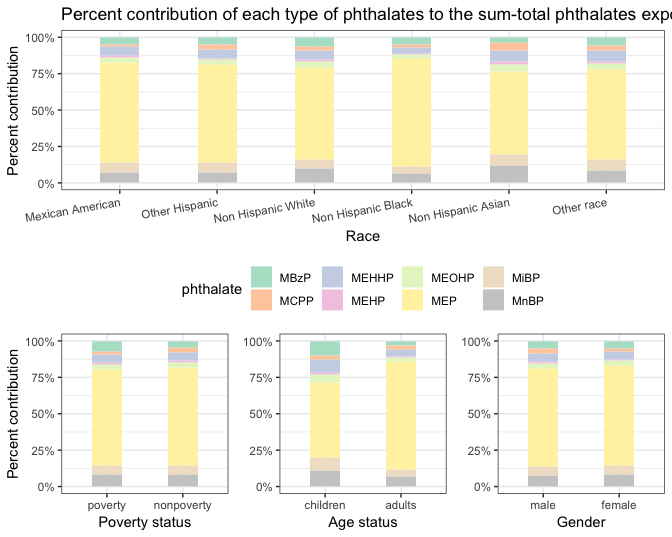
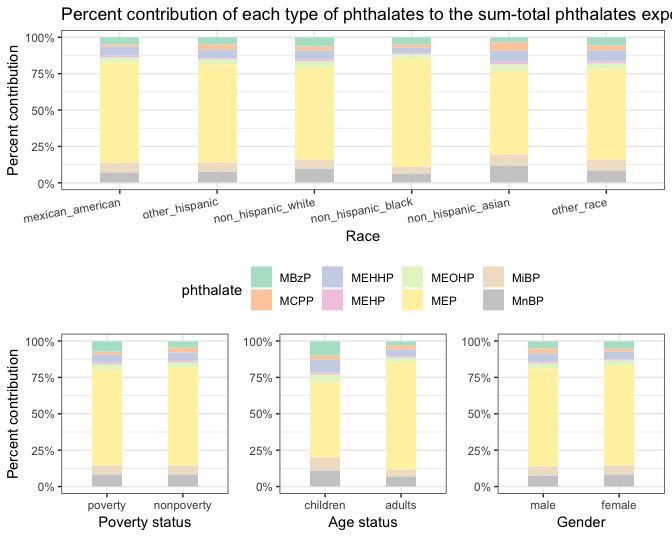
add conclusion

diff --git a/report.md b/report.md
@@ -6,9 +6,9 @@ Jun Lu, Yun He, Chu Yu, Chunxiao Zhai, Haoran Hu
 Motivation
 ----------
 
-Our group first meant to fo a project about obesity. But then we found it not fascinating enough and decided to switch it to project about plasticizer polution influencing the obesity of population. \* The obesity pandemic: Cardio-cerebralvascular diseases have become the leading cause of death worldwide (with ischemic heart disease ranked No.1 and stroke ranked No.3 in 2017), in which diabetes and obesity are the top risk factors along with tobacco use. Disability and early death due to obesity and overweight have increased by 28.9% in the US from 1990 to 2016. In the mean time, obesity and overweight rate have been rapidly increasing in developing countries. Globally, in 2016, 39% of women and 39% of men aged 18 and over were overweight.
+Reason about topic change: Our group first wanted to work on the topic of obesity. However, the datasets we found weren't able to meet our goals. And we also found the topic not fascinating enough. Thus, we decided to switch our topic to plasticizer pollution and explore its effect on obesity as well.
 
--   The increasing plasticizer evidence: Is this health crisis fully due to the diet? First fat and now sugar have been blamed for causing obesity but increasing evidence have been found that pollution is playing an important role. Plasticizers or mainly phthalates have been found to interrupt endocrine system at very low level of exposure, concerns have been rising in pediatricians and scientists. However, suspected act like estrogen agonist in human body, conclusions of how plasticizers affect bodyweight in populations of different age and genders do not always agree. With latest evidence of plasticizers depositing in human brain and more detailed exposure monitoring data of plasticizer exposure, we want to explore the relationship between body weight and plasticizer exposure in the latest NHANES datasets.
+Plasticizers, mainly phthalates, can interrupt the endocrine system even at low exposure levels, and there is evidence of plasticizers depositing in animal brains. Concerns have been rising in pediatricians and scientists. Obesity, which is a major public health problem across the world, is also associated with plasticizer exposure. Fat at first and now sugar have been blamed for causing obesity, while increasing evidence shows that plasticizer pollution is also playing an important role. However, effects of plasticizers on bodyweight within different age and gender groups are different. With more detailed monitoring data on plasticizer exposure available at NHANES datasets, we can now explore the relationship between body weight and plasticizer exposure.
 
 Related works
 -------------
@@ -46,7 +46,7 @@ All data were retrieved from the the [National Health and Nutrition Examination 
 
 We downloaded demographics data ([DEMO2011-2012](https://wwwn.cdc.gov/Nchs/Nhanes/2011-2012/DEMO_G.XPT), [DEMO2013-2014](https://wwwn.cdc.gov/Nchs/Nhanes/2013-2014/DEMO_H.XPT) and [DEMO2015-2016](https://wwwn.cdc.gov/Nchs/Nhanes/2015-2016/DEMO_I.XPT)), phthalates metabolites data ([PHTHTE2011-2012](https://wwwn.cdc.gov/Nchs/Nhanes/2011-2012/PHTHTE_G.XPT), [PHTHTE2013-2014](https://wwwn.cdc.gov/Nchs/Nhanes/2013-2014/PHTHTE_H.XPT) and [PHTHTE2015-2016](https://wwwn.cdc.gov/Nchs/Nhanes/2015-2016/PHTHTE_I.XPT)) and body measures data ([BMX2011-2012](https://wwwn.cdc.gov/Nchs/Nhanes/2011-2012/BMX_G.XPT), [BMX2013-2014](https://wwwn.cdc.gov/Nchs/Nhanes/2013-2014/BMX_H.XPT) and [BMX2015-2016](https://wwwn.cdc.gov/Nchs/Nhanes/2015-2016/BMX_I.XPT)) into three local files.
 
-Variables used in demographics data:
+Variables selected from the demographics dataset:
 
 -   `SEQN`: Respondent sequence number
 -   `RIAGENDR`: Gender
@@ -54,7 +54,7 @@ Variables used in demographics data:
 -   `RIDRETH3`: Race and Hispanic origin information, with Non-Hispanic Asian Category
 -   `INDFMPIR`: Ratio of family income to poverty
 
-Variables used in phthalates metabolites data:
+Variables selected from the phthalates metabolites dataset:
 
 -   `SEQN`: Respondent sequence number
 -   `URXMEP`: Mono-ethyl phthalate (ng/mL)
@@ -66,10 +66,10 @@ Variables used in phthalates metabolites data:
 -   `URXMHH`: Mono-(2-ethyl-5-hydroxyhexyl) phthalate (ng/mL)
 -   `URXMOH`: Mono-(2-ethyl-5-oxohexyl) phthalate (ng/mL)
 
-Variables used in body measures data
+Variables selected from the body measures dataset:
 
 -   `SEQN`: Respondent sequence number
--   `BMXBMI`: Body Mass Index (kg/m\*\*2)
+-   `BMXBMI`: Body Mass Index (kg/m^2)
 -   `BMDBMIC`: BMI Category - Children/Youth
 
 Get the data
@@ -96,7 +96,7 @@ if (!file.exists("data")) {
 }
 ```
 
-We created a function (`download_nhanes`) to download data in NHANES according to the year and data category. Then we used this function and `map` to download demographics data, phthalates metabolites data and body measures data from 2011 to 2016 into three local files.
+We created a function (`download_nhanes`) to download NHANES data from three different survey years, which are '2011-2012', '2013-2014' and '2015-2016'. And we downloaded data on demographics, body measures and phthalates metabolites using this function and `map` into three local files.
 
 Read and clean the data
 -----------------------
@@ -156,11 +156,11 @@ str(phthte_demo_bmx)
     ##  $ concentrate   : num  10 7.4 4.3 25 115.8 ...
     ##  $ log_value     : num  2.3 2 1.46 3.22 4.75 ...
 
-We created a function (`read_file_data`) to read and combine data with one document. And we applied this function to three files and got integrated demographics data, phthalates metabolites data and body measures data from 2011 to 2016 respectively. Then we used `inner_join` to integrate three datasets by `SEQN`.
+We created a function (`read_file_data`) to read and combine datasets within one file. And we applied this function to each file where we had the NHANES data downloaded and finally got three datasets with integrated demographics data, phthalates metabolites data and body measures data ranging from 2011 to 2016, respectively. Then we used `inner_join` to integrate these three datasets by `SEQN`.
 
-We selected variables of interest and converted `gender`, `race`, `bmi_cat` and `poverty_status` into factors. For each individual, the total exposure (`phthte_all`) was calculated as the sum of exposure for each of the eight phthalates. Then we used `gather` to go from wide format to long format. We took log transformation of `concentrate` to create `log_value`.
+We selected variables of interest, and converted `gender`, `race`, `bmi_cat` and `poverty_status` into factors. For each individual, total exposure (`phthte_all`) was calculated by adding the exposure of all eight phthalates metabolites. Then we used `gather` to aggregate data. We also took the log transformation on `concentrate` to create `log_value`.
 
-The final dataset contains data for 8 urinary phthalate metabolites and related information from 8149 participants in the National Health and Nutrition Examination Survey (NHANES) 2011–2016. It contains 73341 observations and 11 variables.
+The final dataset contains data on 8 urinary phthalate metabolites and related information from 8149 participants in the National Health and Nutrition Examination Survey (NHANES) 2011–2016. It contains 73341 observations and 11 variables.
 
 -   `id`: Respondent sequence number
 -   `gender`: Gender
@@ -240,7 +240,6 @@ Percent contribution of individual phthalates to the sum-total exposure
 bar_1 = 
   phthte_demo_bmx %>% 
   filter(phthalate != "phthalate_all") %>% 
-  mutate(race = factor(race, levels = c("mexican_american", "other_hispanic", "non_hispanic_white", "non_hispanic_black", "non_hispanic_asian", "other_race"), labels = c("Mexican American", "Other Hispanic", "Non Hispanic White", "Non Hispanic Black", "Non Hispanic Asian", "Other race"))) %>% 
   group_by(race, phthalate) %>% 
   summarize(mean = mean(concentrate)) %>% 
   ggplot(aes(x = race, y = mean, fill = phthalate)) + 
@@ -305,7 +304,7 @@ bar_1 + (bar_2 + bar_3 + bar_4) + plot_layout(ncol = 1)
 
 <img src="report_files/figure-markdown_github/unnamed-chunk-5-1.png" style="display: block; margin: auto;" />
 
-We made barplots to show percent contribution of individual phthalates to the sum-total exposure among different subgroups. We found that mono-ethyl phthalate (MEP) contributed most to the sum-total exposure. And percent contribution patterns are different between different gender and age groups.
+We made barplots to show percent contribution of each phthalate metabolite to the sum-total exposure among different subgroups. We found that mono-ethyl phthalate (MEP) contributed most to the sum-total exposure. And percent contribution patterns are different among different gender and age groups.
 
 Density plots of the sum-total exposure
 ---------------------------------------
@@ -673,4 +672,15 @@ Among children, there is no association between phthalate and obesity in females
 ### Discussion:
 
 -   What were your findings? Are they what you expect? We were expecting the plasticizers influence male population more for their lower baseline estrogen levels, but we found adult women are more influenced than men, and only male children are influenced.
--   What insights into the data can you make?
+
+-   What insights into the data can you make? The difference in effects of plasticizers as obesogens are heterogeneous in the population, possibly by its multifaceted bioactivity as a selective estrogen receptor binder at different background level of estrogen or interaction with other hormonal axises.
+
+The obesogen effect on bodyweight in girls is not significant might be a result from confounding by the endocrine disrupting chemicals’ (EDCs) effect in precocious puberty.
+
+Laboratory studies find that early exposure to these pollutions can cause epigenetic modification and increase the risk of diseases for whole life. Our analysis did not include duration as an aspect of exposure due to limited data. Emerging researches about phthalates in nephrology and neurobiology have just started to illuminate more hazards we have never considered before.
+
+The plastic products have brought huge convenience to modern life but the aftermath they bring along is more than ocean pollution and the damage they cause is not only to animals but also to ourselves. How to further regulate the application of such chemicals in industry and mitigate the harm in population who have been exposed should be studied more carefully.
+
+-   The increasing plasticizer evidence: Is this health crisis fully due to the diet? First fat and now sugar have been blamed for causing obesity but increasing evidence have been found that pollution is playing an important role. Plasticizers or mainly phthalates have been found to interrupt endocrine system at very low level of exposure, concerns have been rising in pediatricians and scientists. However, suspected act like estrogen agonist in human body, conclusions of how plasticizers affect bodyweight in populations of different age and genders do not always agree. With latest evidence of plasticizers depositing in human brain and more detailed exposure monitoring data of plasticizer exposure, we want to explore the relationship between body weight and plasticizer exposure in the latest NHANES datasets.
+
+reference: 1.<https://www.ncbi.nlm.nih.gov/pmc/articles/PMC5615581/>
